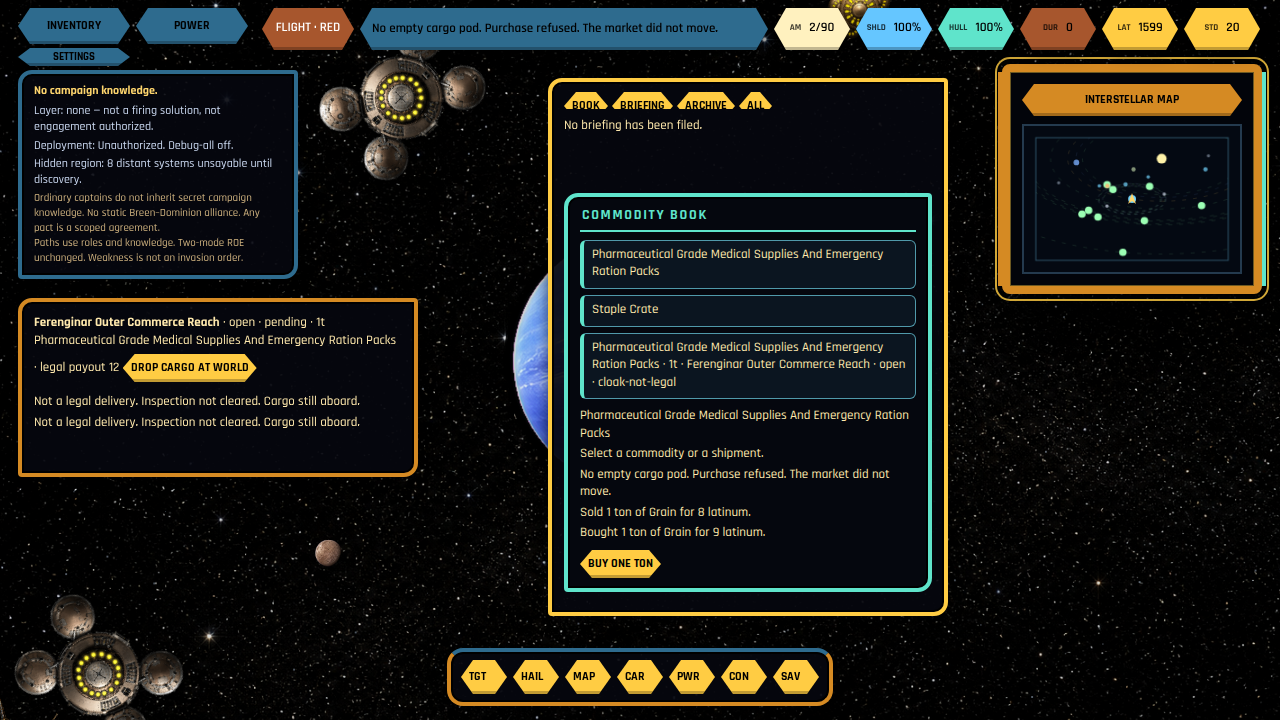
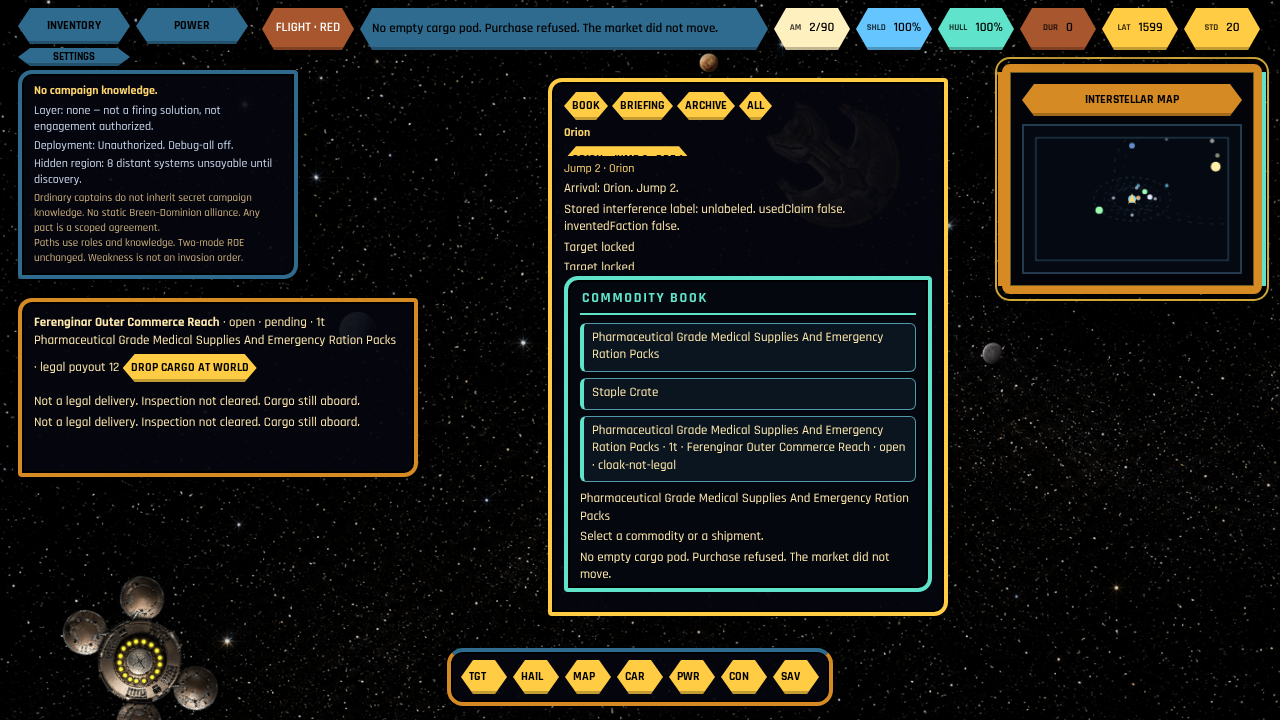
engine: bind book scope, held sale rows, and the filed briefing
Pass the spawn world's region into both book paths and refuse when that region is missing, unknown, or dominion-restricted. Keep sale rows for lots still in the hold, refuse a buy once all eight are held, and show a filed briefing above the book without moving the archive filters.

diff --git a/src/commodity-shipment.js b/src/commodity-shipment.js
@@ -139,12 +139,18 @@ function trimShipments(shipments, cap) {
   }
 }
 
-function enforceCaps(book, config) {
+function saleLotHeld(sale, pods) {
+  return Array.isArray(pods) && pods.some((pod) => podTaggedForSale(pod, sale));
+}
+
+function enforceCaps(book, config, pods) {
   const cap = Math.max(1, asInt(configOf(config).rowCap, COMMODITY_SHIPMENT_CONFIG.rowCap));
   trimOldest(book.commodities, cap);
   trimShipments(book.shipments, cap);
   trimOldest(book.lots, cap);
-  trimOldest(book.sales, cap);
+  if (Array.isArray(pods)) {
+    trimOldest(book.sales, cap, (row) => saleLotHeld(row, pods));
+  }
   book.rowCap = cap;
 }
 
@@ -284,11 +290,15 @@ export function restoreCommodityShipmentBook(saved, context = {}) {
     if (pods && !pods.some((pod) => podTaggedForSale(pod, sale))) continue;
     book.sales[String(saleId)] = sale;
   }
+  let maxPodSale = 0;
+  for (const pod of pods || []) {
+    maxPodSale = Math.max(maxPodSale, asInt(pod?.bookSaleId, 0));
+  }
   const savedNext = Math.max(1, asInt(saved.nextSaleId, 1));
-  book.nextSaleId = Math.max(savedNext, maxIssued + 1);
+  book.nextSaleId = Math.max(savedNext, maxIssued + 1, maxPodSale + 1);
   book.nextSeq = Math.max(asInt(saved.nextSeq, 1), maxSeq + 1, book.nextSeq);
   book.lockedFromRemastered = false;
-  enforceCaps(book, { rowCap: cap });
+  enforceCaps(book, { rowCap: cap }, pods);
   book.notices = [];
   book.lastNotice = '';
   return stripPayable(book) && book;
@@ -416,8 +426,14 @@ export function indexCommodityShipment(book, input = {}) {
   for (const name of Object.keys(store.commodities)) {
     if (!seenNames.has(name)) delete store.commodities[name];
   }
-  enforceCaps(store, input.config);
+  enforceCaps(store, input.config, pods);
   return store;
+}
+
+function tradeRefusalNotice(reason) {
+  if (reason === 'missing-scope') return 'Trade refused. This market has no dominion scope. The market did not move.';
+  if (reason === 'missing-region') return 'Trade refused. This world has no known region. The market did not move.';
+  return 'Dominion trade is closed at this world.';
 }
 
 export function dominionTradeAllowed(context = {}) {
@@ -426,7 +442,7 @@ export function dominionTradeAllowed(context = {}) {
     return {
       allowed: false,
       refused: true,
-      reason: 'missing-scope',
+      reason: context?.worldRegionMissing === true ? 'missing-region' : 'missing-scope',
       roeModesUnchanged: true,
       offersProtectAll: false,
       engagement_authorized: false,
@@ -514,10 +530,7 @@ export function buyCommodityLot(book, input = {}) {
   store.lockedFromRemastered = false;
   const access = dominionTradeAllowed(input.dominion || {});
   if (access.refused) {
-    const notice = access.reason === 'missing-scope'
-      ? 'Trade refused. This market has no dominion scope. The market did not move.'
-      : 'Dominion trade is closed at this world.';
-    return refuseTrade(store, access.reason || 'region-refused', notice);
+    return refuseTrade(store, access.reason || 'region-refused', tradeRefusalNotice(access.reason));
   }
   const market = input.market;
   if (!market) return refuseTrade(store, 'missing-market', 'No market for this good.');
@@ -527,6 +540,15 @@ export function buyCommodityLot(book, input = {}) {
   if (!deal.allowed) return refuseTrade(store, deal.kind || 'refused', deal.sayable);
   const tons = Math.max(1, asInt(input.tons, 1));
   const pods = Array.isArray(input.pods) ? input.pods : [];
+  const rowCap = Math.max(1, asInt(configOf(input.config).rowCap, COMMODITY_SHIPMENT_CONFIG.rowCap));
+  const heldSales = Object.values(store.sales || {}).filter((sale) => saleLotHeld(sale, pods));
+  if (heldSales.length >= rowCap) {
+    return refuseTrade(
+      store,
+      'sale-cap',
+      'Sale book is full. Every open row is still in the hold. Purchase refused. The market did not move.',
+    );
+  }
   const cargoCap = asInt(input.cargoCap, 20);
   if (cargoUsed(pods) + tons > cargoCap) {
     return refuseTrade(store, 'hold-full', 'Hold is full. Purchase refused. The market did not move.');
@@ -588,7 +610,7 @@ export function buyCommodityLot(book, input = {}) {
   upsertCommodity(store, market.good, 'pod', input.strategicJumps);
   const line = tradeLine('Bought', tons, market.good, settled.paid, deal);
   pushNotice(store, line);
-  enforceCaps(store, input.config);
+  enforceCaps(store, input.config, pods);
   return {
     ok: true,
     paid: settled.paid,
@@ -612,10 +634,7 @@ export function sellBackBookLot(book, input = {}) {
   store.lockedFromRemastered = false;
   const access = dominionTradeAllowed(input.dominion || {});
   if (access.refused) {
-    const notice = access.reason === 'missing-scope'
-      ? 'Trade refused. This market has no dominion scope. The market did not move.'
-      : 'Dominion trade is closed at this world.';
-    return refuseTrade(store, access.reason || 'region-refused', notice);
+    return refuseTrade(store, access.reason || 'region-refused', tradeRefusalNotice(access.reason));
   }
   const saleId = input.saleId;
   const key = String(saleId ?? '');

diff --git a/src/main.js b/src/main.js
@@ -11092,8 +11092,12 @@ function renderBriefingArchive() {
     selectEl = host.querySelector('.briefing-archive-select');
     bodyEl = host.querySelector('.briefing-archive-body');
   }
+  const selectScroll = selectEl.scrollTop;
+  const bodyScroll = bodyEl.scrollTop;
   selectEl.innerHTML = selectHtml;
   bodyEl.innerHTML = bodyHtml;
+  selectEl.scrollTop = selectScroll;
+  bodyEl.scrollTop = bodyScroll;
 }
 
 function currentBookMarket(good) {
@@ -11105,17 +11109,30 @@ function currentBookMarket(good) {
   });
 }
 
+function resolveWorldTradeScope(planet) {
+  if (!planet || !String(planet.name || '').trim()) return null;
+  const name = String(planet.name).trim().toLowerCase();
+  if (name === 'dominica') return 'dominion-core';
+  const route = getConventionalRouteRegion(planet);
+  if (route === 'primary-space') return 'general';
+  if (route) return route;
+  return null;
+}
+
 function dominionTradeContextForMarket(market) {
-  const planetName = state.planets[state.currentPlanet]?.name || '';
-  const declared = market?.availabilityRegion || null;
-  const scope = declared || 'general';
+  const planet = state.planets?.[state.currentPlanet] || null;
+  const spawn = currentCatalogSpawnContext('traffic');
+  const worldScope = resolveWorldTradeScope(planet);
+  const declared = String(market?.availabilityRegion || '').trim().toLowerCase();
+  const scope = worldScope == null ? null : (declared || worldScope);
   return {
     availabilityRegion: scope,
     scope,
-    systemName: planetName,
-    region: String(planetName).trim().toLowerCase() === 'dominica' ? 'dominion-core' : '',
-    role: 'traffic',
-    authorizedDeployment: resolveAuthorizedDeployment(ensureDominionBook(), 'fleetAttack') === true,
+    worldRegionMissing: worldScope == null,
+    systemName: spawn.systemName,
+    region: spawn.region,
+    role: spawn.role || 'traffic',
+    authorizedDeployment: spawn.authorizedDeployment === true,
   };
 }
 
@@ -11196,10 +11213,11 @@ function sellBackFromCommodityBook(saleId) {
   const serviceBlock = refuseBookService();
   if (serviceBlock) return serviceBlock;
   const book = ensureCommodityShipmentBook();
-  const sale = book.sales?.[String(saleId)] || Object.values(book.sales || {})[0];
-  const market = sale ? currentBookMarket(sale.good) : null;
+  const requested = saleId == null || saleId === '' ? '' : String(saleId);
+  const sale = requested ? book.sales?.[requested] : Object.values(book.sales || {})[0];
+  const market = sale ? currentBookMarket(sale.good) : currentBookMarket(Object.values(book.sales || {})[0]?.good);
   const result = sellBackBookLot(book, {
-    saleId: sale?.saleId ?? saleId,
+    saleId: sale?.saleId ?? (requested || saleId),
     market,
     marketBook: ensureMarketBook(),
     pods: state.cargoArray,
@@ -26560,6 +26578,7 @@ function createCommodityShipmentProbeApi() {
       standing: standingNow(),
       saveSlotCount: SAVE_SLOT_COUNT,
     }),
+    save: () => serializeCommodityShipmentBook(ensureCommodityShipmentBook()),
     select: (id) => {
       selectCommodityShipment(ensureCommodityShipmentBook(), id);
       renderCommodityShipment();
@@ -26647,7 +26666,15 @@ function createCommodityShipmentProbeApi() {
         identitySame: tradeWitness() === witness,
         docked: state.docked === true,
         systemName: state.planets[state.currentPlanet]?.name || '',
+        dominionScope: dominionTradeContextForMarket(market).scope,
       };
+    },
+    setWorldName: (name) => {
+      const planet = state.planets?.[state.currentPlanet];
+      if (!planet) return null;
+      const previous = planet.name;
+      planet.name = name;
+      return previous;
     },
     playSell: (saleId) => {
       const book = ensureCommodityShipmentBook();

diff --git a/styles.css b/styles.css
@@ -949,6 +949,12 @@ body.ui-theme-cardassian .planet-menu::before {
   /* Parked host. The visible book is .commodity-book-section inside the dock market panel. */
   display: none;
 }
+.briefing-archive > .commodity-book-section {
+  flex: 1 1 auto;
+  min-height: 120px;
+  max-height: 46%;
+  overflow: auto;
+}
 .commodity-book-section {
   display: flex;
   flex-direction: column;
